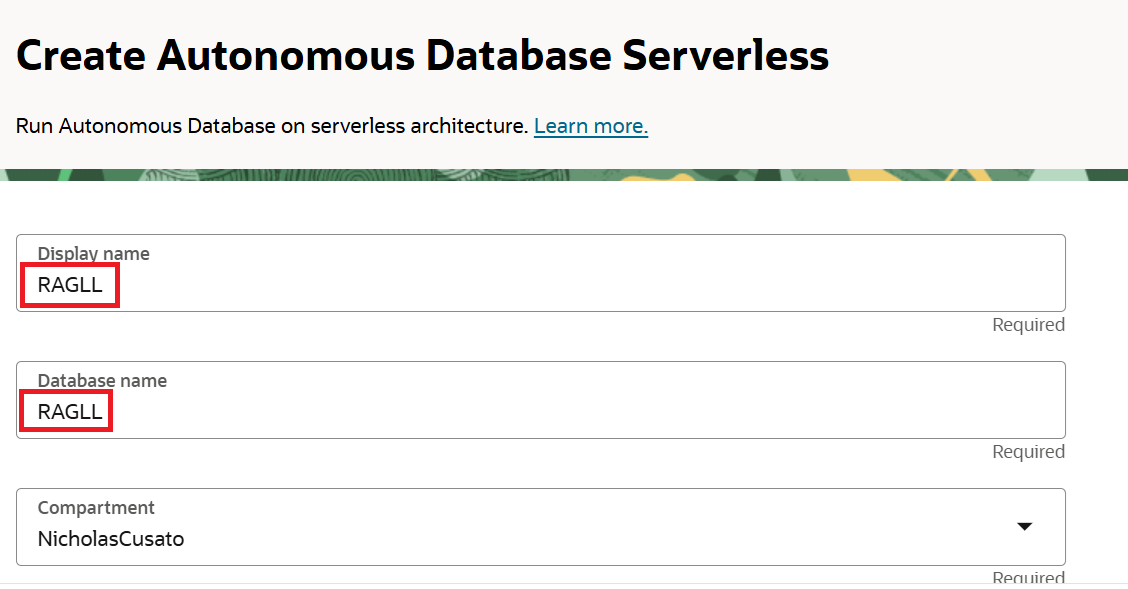
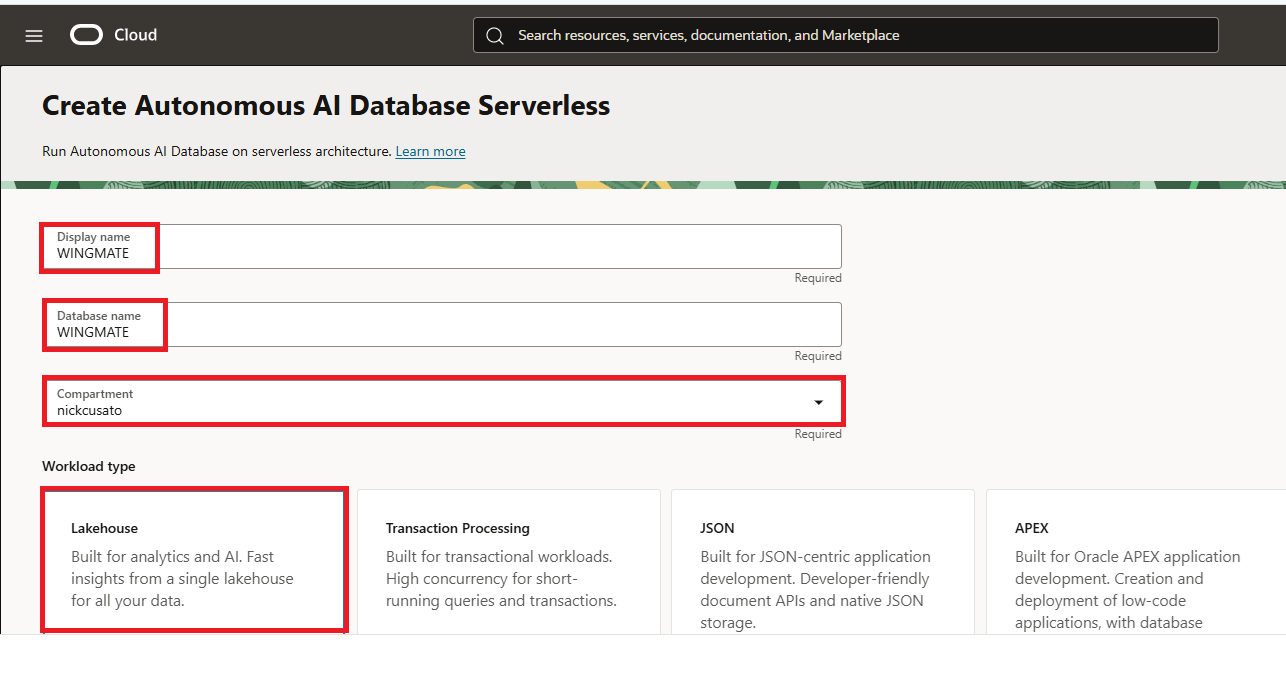
Finish Lab1

diff --git a/wingmate/2-build-apex-wingmate/build-apex-wingmate.md b/wingmate/2-build-apex-wingmate/build-apex-wingmate.md
@@ -8,7 +8,8 @@ Estimated time - 20 minutes
 
 ### Objectives
 
-* Provision a 23ai ADB and APEX App
+* Provision a 26ai ADB and APEX App
+* Generate API Keys
 * Update the Credentials to Connect to OCI Resources
 * Create the Application
 
@@ -17,7 +18,7 @@ Estimated time - 20 minutes
 * An OCI cloud account
 * Subscription to US-Central Chicago Region
 
-## Task 1: Provision a 23ai ADB and APEX App
+## Task 1: Provision a 26ai ADB and APEX App
 
 1. Navitage to the OCI home console and expand the side-menu bar.
 
@@ -31,11 +32,11 @@ Estimated time - 20 minutes
 
 	![Console create ADB button](./images/create-adb-button.png "")
 
-4. Give the ADB a unique name, such as **WINGMATE**, select database version **23ai**, and provide a password. Leave everything else as default and click **Create**.
+4. Give the ADB a unique name, such as **WINGMATE**, select database version **26ai**, and provide a password. Leave everything else as default and click **Create**.
 
 	![Name the ADB](./images/name-adb.png "")
 
-	![Choose database version dropdown](./images/choose-23ai.png "")
+	![Choose database version dropdown](./images/choose-26ai.png "")
 
 5. Navigate to the newly created ADB by selecting the name that you provided, then click the **Tool Configuration** tab and select the Public Access URL **Copy** button for Oracle APEX. Paste that in a new tab.
 
@@ -75,7 +76,21 @@ Estimated time - 20 minutes
 
 	![Sign in workspace credentials](./images/sign-in-workspace.png "")
 
-## Task 2: Update the Credentials to Connect to OCI Resources
+## Task 2: Generate API Keys
+
+1. Navigate back to the OCI console and click your profile icon on the upper-right-hand side of the screen. Select **User Settings**. 
+
+	![Profile menu button](./images/profile.png "")
+
+2. On the menu in the center, select **tokens and keys**.
+
+	![Menu button on profile](./images/tokens-and-keys.png "")
+
+3. Make sure **Generate API Key Pair** is selected. Download your private & public key because you will need these for later. After downloading, select **Add**. You will see a configuration file preview, you can save this on a notepad as it will helpful in the next lab. You may proceed to the next lab. 
+
+	  ![Create Bucket button](./images/save-key.png "")
+
+## Task 3: Update the Credentials to Connect to OCI Resources
 
 1. Click **App Builder** to access the Web Credentials.
 
@@ -93,11 +108,11 @@ Estimated time - 20 minutes
 
 	![Web Credentials Create button](./images/create-web-credentials.png "")
 
-5. Paste the information collected in the first lab into the cooresponding fields (be sure to name the credentials and static ID: **api_key**) and select **Create**.
+5. Change the Authentication Type to **OCI Native Authentication**. Paste the information collected on the notepad in the previous lab into the cooresponding fields (be sure to name the credentials and static ID: **api_key**) and select **Create**.
 
 	![api_key credentials for oci access](./images/save-api-key-creds.png "")
 
-## Task 3: Create the Application
+## Task 4: Create the Application
 
 1. Navigate back to the App Builder by selecting the menu button **App Builder**.
 
@@ -110,7 +125,6 @@ Estimated time - 20 minutes
 3. Name the App **WINGMATE** and click **Create Application**.
 
 	![Naming of the App](./images/name-app.png "") 
-
 
 Thank you for completing this lab.
 
